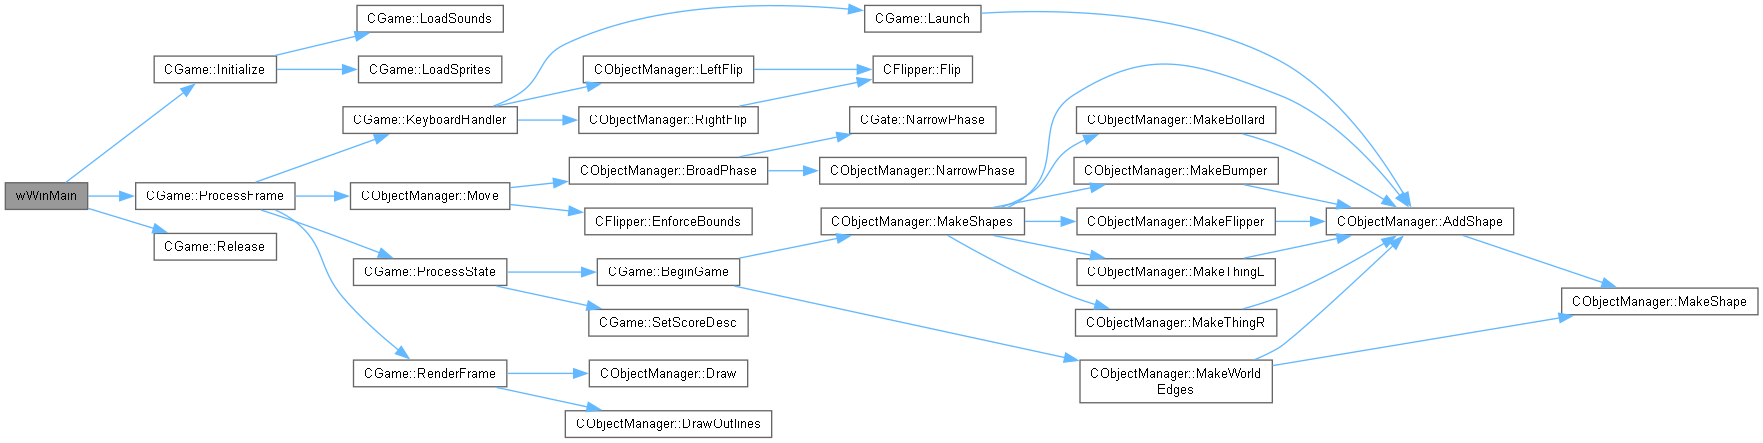
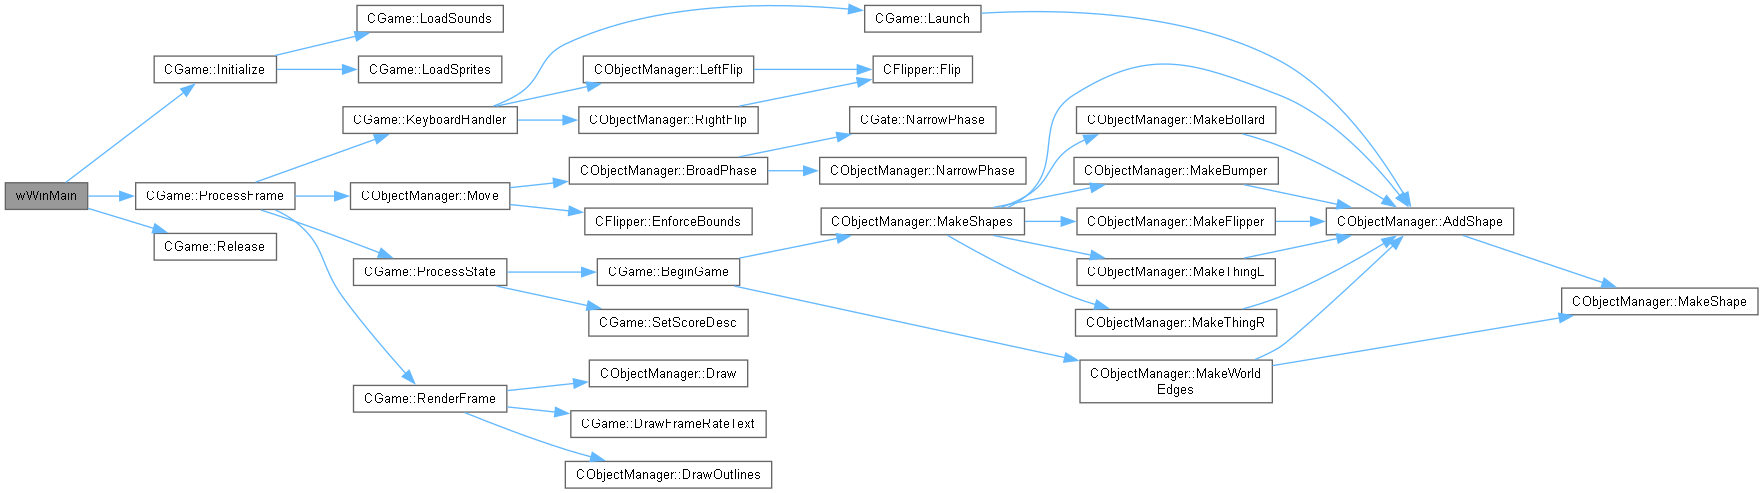
Update

diff --git a/docs/pinball/search/all_a.js b/docs/pinball/search/all_a.js
@@ -2,43 +2,44 @@ var searchData=
 [
   ['m_5fbballinplay_0',['m_bBallInPlay',['../class_c_common.html#a4a5b305a14d67cf4bfba3113f0f744f0',1,'CCommon']]],
   ['m_5fbccw_1',['m_bCCW',['../class_c_flipper.html#adfd89cf14cfe89a64e50e98c6151ca90',1,'CFlipper']]],
-  ['m_5fbflipup_2',['m_bFlipUp',['../class_c_flipper.html#a258275a7701a99d85a12a0feef92bc8b',1,'CFlipper']]],
-  ['m_5fbrecenthit_3',['m_bRecentHit',['../class_c_object.html#a67c7e06d8d32dc902184af9d7cd9f399',1,'CObject']]],
-  ['m_5fcaabb_4',['m_cAABB',['../class_c_object_manager.html#a016a690831fade5b2f0b12a72b090232',1,'CObjectManager']]],
-  ['m_5fcclipdesc0_5',['m_cClipDesc0',['../class_c_game.html#a2f3cad8a534e1871d78169a92558fbdb',1,'CGame']]],
-  ['m_5fcclipdesc1_6',['m_cClipDesc1',['../class_c_game.html#a1572b74d130de4a75768bcdb9c39bfb2',1,'CGame']]],
-  ['m_5fcscoredesc_7',['m_cScoreDesc',['../class_c_game.html#a10ccc45cdb94f1fbfa2ea99b79942189',1,'CGame']]],
-  ['m_5fedrawmode_8',['m_eDrawMode',['../class_c_common.html#a342e9d67f45b482a02d16b595508850e',1,'CCommon']]],
-  ['m_5fegamestate_9',['m_eGameState',['../class_c_game.html#a6d6d7b949d4a47b7c5d03c9dbf4be6fd',1,'CGame']]],
-  ['m_5felitsprite_10',['m_eLitSprite',['../class_c_obj_desc.html#a5066350e5758a28cdab97904b7640f75',1,'CObjDesc::m_eLitSprite'],['../class_c_object.html#a7708c1330660d19bc66199dc733b9c7c',1,'CObject::m_eLitSprite']]],
-  ['m_5fesound_11',['m_eSound',['../class_c_obj_desc.html#ac40fd308a26a2066024f86be7fae7841',1,'CObjDesc::m_eSound'],['../class_c_object.html#a2710e60021bc92b31546f1fe34bb9a09',1,'CObject::m_eSound']]],
-  ['m_5feunlitsprite_12',['m_eUnlitSprite',['../class_c_obj_desc.html#a830ea3eb951d9818294c3b39d4dbc346',1,'CObjDesc::m_eUnlitSprite'],['../class_c_object.html#a98c0db9913a5a24553bcaefc08e3c57f',1,'CObject::m_eUnlitSprite']]],
-  ['m_5fffrequency_13',['m_fFrequency',['../class_c_common.html#a55a630f382e032447df8f0757c0a20cf',1,'CCommon']]],
-  ['m_5fflasthittime_14',['m_fLastHitTime',['../class_c_object.html#afa9693e6f5b689b74ef5c7edc7a03836',1,'CObject']]],
-  ['m_5fnciterations_15',['m_nCIterations',['../class_c_common.html#a96ee6607f3899e75245d6847d49ca8f3',1,'CCommon']]],
-  ['m_5fnmiterations_16',['m_nMIterations',['../class_c_common.html#a48deca1b01b176202d98e3e73bd39a28',1,'CCommon']]],
-  ['m_5fnscore_17',['m_nScore',['../class_c_common.html#a895fca9c2d0bec1d4696fb807973b540',1,'CCommon::m_nScore'],['../class_c_obj_desc.html#a184ffa779ebd6eb3573480cb89759f5a',1,'CObjDesc::m_nScore'],['../class_c_object.html#a182d7382cd46ab16ae0329b5640826c4',1,'CObject::m_nScore']]],
-  ['m_5fpcurballshape_18',['m_pCurBallShape',['../class_c_game.html#a72ff9ab19901825f1e52ce2aa2bbc66c',1,'CGame']]],
-  ['m_5fpflipper_19',['m_pFlipper',['../class_c_flipper.html#ab7edc874d7f4568e5600f8b117310014',1,'CFlipper']]],
-  ['m_5fpleftflipper_20',['m_pLeftFlipper',['../class_c_object_manager.html#a02d5363ba501004972eb23610bc334b5',1,'CObjectManager']]],
-  ['m_5fpleftgate_21',['m_pLeftGate',['../class_c_object_manager.html#a2401e7ed6ab256c8bdc4d64042ee14c4',1,'CObjectManager']]],
-  ['m_5fplineseg_22',['m_pLineSeg',['../class_c_gate.html#ae314d128e24130badf5fb7fb13399f2f',1,'CGate']]],
-  ['m_5fpobjectmanager_23',['m_pObjectManager',['../class_c_common.html#a2ecfc2b5378ac9cc103605dca52011b3',1,'CCommon::m_pObjectManager'],['../class_c_game.html#ada781c7971e7bdb745edff821ea9fad9',1,'CGame::m_pObjectManager']]],
-  ['m_5fprenderer_24',['m_pRenderer',['../class_c_common.html#affe2697f28fbe937757db5eaa94c00d3',1,'CCommon']]],
-  ['m_5fprightflipper_25',['m_pRightFlipper',['../class_c_object_manager.html#af3efca35941f66b11d7d63d01e57f50d',1,'CObjectManager']]],
-  ['m_5fprightgate_26',['m_pRightGate',['../class_c_object_manager.html#a2bfd4879c5c89b0b5f29eac952e0ef5b',1,'CObjectManager']]],
-  ['m_5fpshape_27',['m_pShape',['../class_c_object.html#a842acd98e83e19ae71d23390b3948916',1,'CObject']]],
-  ['m_5fstdobjects_28',['m_stdObjects',['../class_c_object_manager.html#a97aac277c62e64c558cde571b2241a1f',1,'CObjectManager']]],
-  ['m_5fstdshapes_29',['m_stdShapes',['../class_c_object_manager.html#a0dcf204ea848b74cadc5d0b6ec89efea',1,'CObjectManager']]],
-  ['m_5fvspriteoffset_30',['m_vSpriteOffset',['../class_c_obj_desc.html#af3c784dc2e05fd455771ef6673f7b841',1,'CObjDesc::m_vSpriteOffset'],['../class_c_object.html#ac75d44a003108a32735398e23c877794',1,'CObject::m_vSpriteOffset']]],
-  ['main_2ecpp_31',['Main.cpp',['../_main_8cpp.html',1,'']]],
-  ['makebollard_32',['MakeBollard',['../class_c_object_manager.html#a8ec3facaf9550165947643f51e5265c7',1,'CObjectManager']]],
-  ['makebumper_33',['MakeBumper',['../class_c_object_manager.html#ae1c594c6824929eb9ba84f336045ae3d',1,'CObjectManager']]],
-  ['makeflipper_34',['MakeFlipper',['../class_c_object_manager.html#abaa1d5ffeaee29261db5eae35a03487c',1,'CObjectManager']]],
-  ['makeshape_35',['MakeShape',['../class_c_object_manager.html#a6c230a9e32ea2869acc9d1916e490df0',1,'CObjectManager']]],
-  ['makeshapes_36',['MakeShapes',['../class_c_object_manager.html#a31136d0aefd25d97932dca283f7e58a0',1,'CObjectManager']]],
-  ['makethingl_37',['MakeThingL',['../class_c_object_manager.html#a3c7fbcf613ac5cc2836d5e789ad4be20',1,'CObjectManager']]],
-  ['makethingr_38',['MakeThingR',['../class_c_object_manager.html#a08f704845cf30b46b8a59a3ce49d5419',1,'CObjectManager']]],
-  ['makeworldedges_39',['MakeWorldEdges',['../class_c_object_manager.html#a1dcdb4b8172c7657d398b966381ae006',1,'CObjectManager']]],
-  ['move_40',['Move',['../class_c_object_manager.html#aee994b178d5774f081865796a03709f2',1,'CObjectManager']]]
+  ['m_5fbdrawframerate_2',['m_bDrawFrameRate',['../class_c_game.html#aebf03edb5525b616bdefb05d23b9aa36',1,'CGame']]],
+  ['m_5fbflipup_3',['m_bFlipUp',['../class_c_flipper.html#a258275a7701a99d85a12a0feef92bc8b',1,'CFlipper']]],
+  ['m_5fbrecenthit_4',['m_bRecentHit',['../class_c_object.html#a67c7e06d8d32dc902184af9d7cd9f399',1,'CObject']]],
+  ['m_5fcaabb_5',['m_cAABB',['../class_c_object_manager.html#a016a690831fade5b2f0b12a72b090232',1,'CObjectManager']]],
+  ['m_5fcclipdesc0_6',['m_cClipDesc0',['../class_c_game.html#a2f3cad8a534e1871d78169a92558fbdb',1,'CGame']]],
+  ['m_5fcclipdesc1_7',['m_cClipDesc1',['../class_c_game.html#a1572b74d130de4a75768bcdb9c39bfb2',1,'CGame']]],
+  ['m_5fcscoredesc_8',['m_cScoreDesc',['../class_c_game.html#a10ccc45cdb94f1fbfa2ea99b79942189',1,'CGame']]],
+  ['m_5fedrawmode_9',['m_eDrawMode',['../class_c_common.html#a342e9d67f45b482a02d16b595508850e',1,'CCommon']]],
+  ['m_5fegamestate_10',['m_eGameState',['../class_c_game.html#a6d6d7b949d4a47b7c5d03c9dbf4be6fd',1,'CGame']]],
+  ['m_5felitsprite_11',['m_eLitSprite',['../class_c_obj_desc.html#a5066350e5758a28cdab97904b7640f75',1,'CObjDesc::m_eLitSprite'],['../class_c_object.html#a7708c1330660d19bc66199dc733b9c7c',1,'CObject::m_eLitSprite']]],
+  ['m_5fesound_12',['m_eSound',['../class_c_obj_desc.html#ac40fd308a26a2066024f86be7fae7841',1,'CObjDesc::m_eSound'],['../class_c_object.html#a2710e60021bc92b31546f1fe34bb9a09',1,'CObject::m_eSound']]],
+  ['m_5feunlitsprite_13',['m_eUnlitSprite',['../class_c_obj_desc.html#a830ea3eb951d9818294c3b39d4dbc346',1,'CObjDesc::m_eUnlitSprite'],['../class_c_object.html#a98c0db9913a5a24553bcaefc08e3c57f',1,'CObject::m_eUnlitSprite']]],
+  ['m_5fffrequency_14',['m_fFrequency',['../class_c_common.html#a55a630f382e032447df8f0757c0a20cf',1,'CCommon']]],
+  ['m_5fflasthittime_15',['m_fLastHitTime',['../class_c_object.html#afa9693e6f5b689b74ef5c7edc7a03836',1,'CObject']]],
+  ['m_5fnciterations_16',['m_nCIterations',['../class_c_common.html#a96ee6607f3899e75245d6847d49ca8f3',1,'CCommon']]],
+  ['m_5fnmiterations_17',['m_nMIterations',['../class_c_common.html#a48deca1b01b176202d98e3e73bd39a28',1,'CCommon']]],
+  ['m_5fnscore_18',['m_nScore',['../class_c_common.html#a895fca9c2d0bec1d4696fb807973b540',1,'CCommon::m_nScore'],['../class_c_obj_desc.html#a184ffa779ebd6eb3573480cb89759f5a',1,'CObjDesc::m_nScore'],['../class_c_object.html#a182d7382cd46ab16ae0329b5640826c4',1,'CObject::m_nScore']]],
+  ['m_5fpcurballshape_19',['m_pCurBallShape',['../class_c_game.html#a72ff9ab19901825f1e52ce2aa2bbc66c',1,'CGame']]],
+  ['m_5fpflipper_20',['m_pFlipper',['../class_c_flipper.html#ab7edc874d7f4568e5600f8b117310014',1,'CFlipper']]],
+  ['m_5fpleftflipper_21',['m_pLeftFlipper',['../class_c_object_manager.html#a02d5363ba501004972eb23610bc334b5',1,'CObjectManager']]],
+  ['m_5fpleftgate_22',['m_pLeftGate',['../class_c_object_manager.html#a2401e7ed6ab256c8bdc4d64042ee14c4',1,'CObjectManager']]],
+  ['m_5fplineseg_23',['m_pLineSeg',['../class_c_gate.html#ae314d128e24130badf5fb7fb13399f2f',1,'CGate']]],
+  ['m_5fpobjectmanager_24',['m_pObjectManager',['../class_c_common.html#a2ecfc2b5378ac9cc103605dca52011b3',1,'CCommon::m_pObjectManager'],['../class_c_game.html#ada781c7971e7bdb745edff821ea9fad9',1,'CGame::m_pObjectManager']]],
+  ['m_5fprenderer_25',['m_pRenderer',['../class_c_common.html#affe2697f28fbe937757db5eaa94c00d3',1,'CCommon']]],
+  ['m_5fprightflipper_26',['m_pRightFlipper',['../class_c_object_manager.html#af3efca35941f66b11d7d63d01e57f50d',1,'CObjectManager']]],
+  ['m_5fprightgate_27',['m_pRightGate',['../class_c_object_manager.html#a2bfd4879c5c89b0b5f29eac952e0ef5b',1,'CObjectManager']]],
+  ['m_5fpshape_28',['m_pShape',['../class_c_object.html#a842acd98e83e19ae71d23390b3948916',1,'CObject']]],
+  ['m_5fstdobjects_29',['m_stdObjects',['../class_c_object_manager.html#a97aac277c62e64c558cde571b2241a1f',1,'CObjectManager']]],
+  ['m_5fstdshapes_30',['m_stdShapes',['../class_c_object_manager.html#a0dcf204ea848b74cadc5d0b6ec89efea',1,'CObjectManager']]],
+  ['m_5fvspriteoffset_31',['m_vSpriteOffset',['../class_c_obj_desc.html#af3c784dc2e05fd455771ef6673f7b841',1,'CObjDesc::m_vSpriteOffset'],['../class_c_object.html#ac75d44a003108a32735398e23c877794',1,'CObject::m_vSpriteOffset']]],
+  ['main_2ecpp_32',['Main.cpp',['../_main_8cpp.html',1,'']]],
+  ['makebollard_33',['MakeBollard',['../class_c_object_manager.html#a8ec3facaf9550165947643f51e5265c7',1,'CObjectManager']]],
+  ['makebumper_34',['MakeBumper',['../class_c_object_manager.html#ae1c594c6824929eb9ba84f336045ae3d',1,'CObjectManager']]],
+  ['makeflipper_35',['MakeFlipper',['../class_c_object_manager.html#abaa1d5ffeaee29261db5eae35a03487c',1,'CObjectManager']]],
+  ['makeshape_36',['MakeShape',['../class_c_object_manager.html#a6c230a9e32ea2869acc9d1916e490df0',1,'CObjectManager']]],
+  ['makeshapes_37',['MakeShapes',['../class_c_object_manager.html#a31136d0aefd25d97932dca283f7e58a0',1,'CObjectManager']]],
+  ['makethingl_38',['MakeThingL',['../class_c_object_manager.html#a3c7fbcf613ac5cc2836d5e789ad4be20',1,'CObjectManager']]],
+  ['makethingr_39',['MakeThingR',['../class_c_object_manager.html#a08f704845cf30b46b8a59a3ce49d5419',1,'CObjectManager']]],
+  ['makeworldedges_40',['MakeWorldEdges',['../class_c_object_manager.html#a1dcdb4b8172c7657d398b966381ae006',1,'CObjectManager']]],
+  ['move_41',['Move',['../class_c_object_manager.html#aee994b178d5774f081865796a03709f2',1,'CObjectManager']]]
 ];

diff --git a/docs/pinball/class_c_game.html b/docs/pinball/class_c_game.html
@@ -194,12 +194,19 @@ Private Member Functions</h2></td></tr>
 <tr class="memitem:a4348d4eda6cc858625e8cac09dcc1e7d" id="r_a4348d4eda6cc858625e8cac09dcc1e7d"><td class="memItemLeft" align="right" valign="top">void&#160;</td><td class="memItemRight" valign="bottom"><a class="el" href="#a4348d4eda6cc858625e8cac09dcc1e7d">ProcessState</a> ()</td></tr>
 <tr class="memdesc:a4348d4eda6cc858625e8cac09dcc1e7d"><td class="mdescLeft">&#160;</td><td class="mdescRight">Process game state.  <br /></td></tr>
 <tr class="separator:a4348d4eda6cc858625e8cac09dcc1e7d"><td class="memSeparator" colspan="2">&#160;</td></tr>
+<tr class="memitem:ad55e21c71b4cef261a09fca0520012f5" id="r_ad55e21c71b4cef261a09fca0520012f5"><td class="memItemLeft" align="right" valign="top">void&#160;</td><td class="memItemRight" valign="bottom"><a class="el" href="#ad55e21c71b4cef261a09fca0520012f5">DrawFrameRateText</a> (const XMVECTORF32 &amp;)</td></tr>
+<tr class="memdesc:ad55e21c71b4cef261a09fca0520012f5"><td class="mdescLeft">&#160;</td><td class="mdescRight">Draw frame rate text to screen.  <br /></td></tr>
+<tr class="separator:ad55e21c71b4cef261a09fca0520012f5"><td class="memSeparator" colspan="2">&#160;</td></tr>
 <tr class="memitem:acbbc4c1ec3e3ce0cf871d9deb993a4a1" id="r_acbbc4c1ec3e3ce0cf871d9deb993a4a1"><td class="memItemLeft" align="right" valign="top">void&#160;</td><td class="memItemRight" valign="bottom"><a class="el" href="#acbbc4c1ec3e3ce0cf871d9deb993a4a1">Launch</a> ()</td></tr>
 <tr class="memdesc:acbbc4c1ec3e3ce0cf871d9deb993a4a1"><td class="mdescLeft">&#160;</td><td class="mdescRight">Create and launch a ball.  <br /></td></tr>
 <tr class="separator:acbbc4c1ec3e3ce0cf871d9deb993a4a1"><td class="memSeparator" colspan="2">&#160;</td></tr>
 </table><table class="memberdecls">
 <tr class="heading"><td colspan="2"><h2 class="groupheader"><a id="pri-attribs" name="pri-attribs"></a>
 Private Attributes</h2></td></tr>
+<tr class="memitem:aebf03edb5525b616bdefb05d23b9aa36" id="r_aebf03edb5525b616bdefb05d23b9aa36"><td class="memItemLeft" align="right" valign="top"><a id="aebf03edb5525b616bdefb05d23b9aa36" name="aebf03edb5525b616bdefb05d23b9aa36"></a>
+bool&#160;</td><td class="memItemRight" valign="bottom"><b>m_bDrawFrameRate</b> = false</td></tr>
+<tr class="memdesc:aebf03edb5525b616bdefb05d23b9aa36"><td class="mdescLeft">&#160;</td><td class="mdescRight">Draw the frame rate. <br /></td></tr>
+<tr class="separator:aebf03edb5525b616bdefb05d23b9aa36"><td class="memSeparator" colspan="2">&#160;</td></tr>
 <tr class="memitem:a6d6d7b949d4a47b7c5d03c9dbf4be6fd" id="r_a6d6d7b949d4a47b7c5d03c9dbf4be6fd"><td class="memItemLeft" align="right" valign="top"><a id="a6d6d7b949d4a47b7c5d03c9dbf4be6fd" name="a6d6d7b949d4a47b7c5d03c9dbf4be6fd"></a>
 <a class="el" href="_game_defines_8h.html#ae12dcfc1b1e01980b11e116e3af6807f">eGameState</a>&#160;</td><td class="memItemRight" valign="bottom"><b>m_eGameState</b> = eGameState::Loading</td></tr>
 <tr class="memdesc:a6d6d7b949d4a47b7c5d03c9dbf4be6fd"><td class="mdescLeft">&#160;</td><td class="mdescRight">Game state. <br /></td></tr>
@@ -335,6 +342,51 @@ Here is the caller graph for this function:</div>
 <area shape="rect" title="Begin playing the game." alt="" coords="544,5,687,32"/>
 <area shape="rect" href="class_c_game.html#a4348d4eda6cc858625e8cac09dcc1e7d" title="Process game state." alt="" coords="343,5,496,32"/>
 <area shape="poly" title=" " alt="" coords="529,21,497,21,497,16,529,16"/>
+<area shape="rect" href="class_c_game.html#aec83638cb2fdd94ef098132eb59617d8" title="Process an animation frame." alt="" coords="136,5,295,32"/>
+<area shape="poly" title=" " alt="" coords="328,21,295,21,295,16,328,16"/>
+<area shape="rect" href="_main_8cpp.html#a4e25c396385b9a412e9e4c1010076520" title="The main entry point for this application." alt="" coords="5,5,88,32"/>
+<area shape="poly" title=" " alt="" coords="120,21,88,21,88,16,120,16"/>
+</map>
+</div>
+
+</div>
+</div>
+<a id="ad55e21c71b4cef261a09fca0520012f5" name="ad55e21c71b4cef261a09fca0520012f5"></a>
+<h2 class="memtitle"><span class="permalink"><a href="#ad55e21c71b4cef261a09fca0520012f5">&#9670;&#160;</a></span>DrawFrameRateText()</h2>
+
+<div class="memitem">
+<div class="memproto">
+<table class="mlabels">
+  <tr>
+  <td class="mlabels-left">
+      <table class="memname">
+        <tr>
+          <td class="memname">void CGame::DrawFrameRateText </td>
+          <td>(</td>
+          <td class="paramtype">const XMVECTORF32 &amp;</td>          <td class="paramname"><span class="paramname"><em>color</em></span></td><td>)</td>
+          <td></td>
+        </tr>
+      </table>
+  </td>
+  <td class="mlabels-right">
+<span class="mlabels"><span class="mlabel">private</span></span>  </td>
+  </tr>
+</table>
+</div><div class="memdoc">
+<p>Draw the current frame rate to a hard-coded position in the window. The frame rate will be drawn in a hard-coded position using the font specified in <code>GameSettings.xml</code>. </p><dl class="params"><dt>Parameters</dt><dd>
+  <table class="params">
+    <tr><td class="paramname">color</td><td>Text color from <code>Colors::</code>. </td></tr>
+  </table>
+  </dd>
+</dl>
+<div class="dynheader">
+Here is the caller graph for this function:</div>
+<div class="dyncontent">
+<div class="center"><img src="class_c_game_ad55e21c71b4cef261a09fca0520012f5_icgraph.png" border="0" usemap="#aclass_c_game_ad55e21c71b4cef261a09fca0520012f5_icgraph" alt=""/></div>
+<map name="aclass_c_game_ad55e21c71b4cef261a09fca0520012f5_icgraph" id="aclass_c_game_ad55e21c71b4cef261a09fca0520012f5_icgraph">
+<area shape="rect" title="Draw frame rate text to screen." alt="" coords="544,5,740,32"/>
+<area shape="rect" href="class_c_game.html#a8b7924e5be62a511e2fc90cc40b7cbb0" title="Render an animation frame." alt="" coords="343,5,496,32"/>
+<area shape="poly" title=" " alt="" coords="528,21,496,21,496,16,528,16"/>
 <area shape="rect" href="class_c_game.html#aec83638cb2fdd94ef098132eb59617d8" title="Process an animation frame." alt="" coords="136,5,295,32"/>
 <area shape="poly" title=" " alt="" coords="328,21,295,21,295,16,328,16"/>
 <area shape="rect" href="_main_8cpp.html#a4e25c396385b9a412e9e4c1010076520" title="The main entry point for this application." alt="" coords="5,5,88,32"/>
@@ -600,8 +652,8 @@ Here is the call graph for this function:</div>
 <area shape="poly" title=" " alt="" coords="164,235,204,230,205,235,165,240"/>
 <area shape="rect" href="class_c_game.html#a4348d4eda6cc858625e8cac09dcc1e7d" title="Process game state." alt="" coords="223,259,376,285"/>
 <area shape="poly" title=" " alt="" coords="165,253,208,258,207,264,164,259"/>
-<area shape="rect" href="class_c_game.html#a8b7924e5be62a511e2fc90cc40b7cbb0" title="Render an animation frame." alt="" coords="223,360,376,387"/>
-<area shape="poly" title=" " alt="" coords="111,258,264,349,261,354,108,263"/>
+<area shape="rect" href="class_c_game.html#a8b7924e5be62a511e2fc90cc40b7cbb0" title="Render an animation frame." alt="" coords="223,385,376,412"/>
+<area shape="poly" title=" " alt="" coords="107,258,269,374,266,379,104,263"/>
 <area shape="rect" href="class_c_game.html#acbbc4c1ec3e3ce0cf871d9deb993a4a1" title="Create and launch a ball." alt="" coords="734,5,851,32"/>
 <area shape="poly" title=" " alt="" coords="329,78,378,59,434,41,509,28,585,20,718,15,719,20,586,26,510,34,436,47,379,64,331,83"/>
 <area shape="rect" href="class_c_object_manager.html#acd7fa3e1aa7512c071b0897c2c9d3a3b" title="Flip left flipper." alt="" coords="453,56,623,83"/>
@@ -650,9 +702,11 @@ Here is the call graph for this function:</div>
 <area shape="poly" title=" " alt="" coords="1123,357,1147,346,1195,305,1261,243,1265,247,1198,309,1149,350,1126,362"/>
 <area shape="poly" title=" " alt="" coords="1142,363,1429,315,1430,320,1143,368"/>
 <area shape="rect" href="class_c_object_manager.html#a849420297e5c9bf08f073d90b448daf8" title="Draw all objects." alt="" coords="459,360,617,387"/>
-<area shape="poly" title=" " alt="" coords="377,371,444,371,444,376,377,376"/>
-<area shape="rect" href="class_c_object_manager.html#a540f9609ea9a116178aec2c9a43a338a" title="Draw outlines of all objects." alt="" coords="435,411,641,437"/>
-<area shape="poly" title=" " alt="" coords="367,385,458,404,457,410,366,390"/>
+<area shape="poly" title=" " alt="" coords="377,388,443,381,444,386,377,393"/>
+<area shape="rect" href="class_c_game.html#ad55e21c71b4cef261a09fca0520012f5" title="Draw frame rate text to screen." alt="" coords="440,411,636,437"/>
+<area shape="poly" title=" " alt="" coords="377,404,425,409,425,415,377,409"/>
+<area shape="rect" href="class_c_object_manager.html#a540f9609ea9a116178aec2c9a43a338a" title="Draw outlines of all objects." alt="" coords="435,461,641,488"/>
+<area shape="poly" title=" " alt="" coords="335,410,436,447,462,454,460,459,434,452,333,415"/>
 </map>
 </div>
 <div class="dynheader">
@@ -800,11 +854,13 @@ Here is the call graph for this function:</div>
 <div class="dyncontent">
 <div class="center"><img src="class_c_game_a8b7924e5be62a511e2fc90cc40b7cbb0_cgraph.png" border="0" usemap="#aclass_c_game_a8b7924e5be62a511e2fc90cc40b7cbb0_cgraph" alt=""/></div>
 <map name="aclass_c_game_a8b7924e5be62a511e2fc90cc40b7cbb0_cgraph" id="aclass_c_game_a8b7924e5be62a511e2fc90cc40b7cbb0_cgraph">
-<area shape="rect" title="Render an animation frame." alt="" coords="5,31,159,57"/>
+<area shape="rect" title="Render an animation frame." alt="" coords="5,56,159,83"/>
 <area shape="rect" href="class_c_object_manager.html#a849420297e5c9bf08f073d90b448daf8" title="Draw all objects." alt="" coords="231,5,389,32"/>
-<area shape="poly" title=" " alt="" coords="159,33,215,27,215,32,159,38"/>
-<area shape="rect" href="class_c_object_manager.html#a540f9609ea9a116178aec2c9a43a338a" title="Draw outlines of all objects." alt="" coords="207,56,413,83"/>
-<area shape="poly" title=" " alt="" coords="159,50,192,53,191,59,159,55"/>
+<area shape="poly" title=" " alt="" coords="145,53,231,33,232,39,146,58"/>
+<area shape="rect" href="class_c_game.html#ad55e21c71b4cef261a09fca0520012f5" title="Draw frame rate text to screen." alt="" coords="212,56,408,83"/>
+<area shape="poly" title=" " alt="" coords="159,67,196,67,196,72,159,72"/>
+<area shape="rect" href="class_c_object_manager.html#a540f9609ea9a116178aec2c9a43a338a" title="Draw outlines of all objects." alt="" coords="207,107,413,133"/>
+<area shape="poly" title=" " alt="" coords="146,81,232,100,231,105,145,86"/>
 </map>
 </div>
 <div class="dynheader">

diff --git a/docs/pinball/search/variables_0.js b/docs/pinball/search/variables_0.js
@@ -2,33 +2,34 @@ var searchData=
 [
   ['m_5fbballinplay_0',['m_bBallInPlay',['../class_c_common.html#a4a5b305a14d67cf4bfba3113f0f744f0',1,'CCommon']]],
   ['m_5fbccw_1',['m_bCCW',['../class_c_flipper.html#adfd89cf14cfe89a64e50e98c6151ca90',1,'CFlipper']]],
-  ['m_5fbflipup_2',['m_bFlipUp',['../class_c_flipper.html#a258275a7701a99d85a12a0feef92bc8b',1,'CFlipper']]],
-  ['m_5fbrecenthit_3',['m_bRecentHit',['../class_c_object.html#a67c7e06d8d32dc902184af9d7cd9f399',1,'CObject']]],
-  ['m_5fcaabb_4',['m_cAABB',['../class_c_object_manager.html#a016a690831fade5b2f0b12a72b090232',1,'CObjectManager']]],
-  ['m_5fcclipdesc0_5',['m_cClipDesc0',['../class_c_game.html#a2f3cad8a534e1871d78169a92558fbdb',1,'CGame']]],
-  ['m_5fcclipdesc1_6',['m_cClipDesc1',['../class_c_game.html#a1572b74d130de4a75768bcdb9c39bfb2',1,'CGame']]],
-  ['m_5fcscoredesc_7',['m_cScoreDesc',['../class_c_game.html#a10ccc45cdb94f1fbfa2ea99b79942189',1,'CGame']]],
-  ['m_5fedrawmode_8',['m_eDrawMode',['../class_c_common.html#a342e9d67f45b482a02d16b595508850e',1,'CCommon']]],
-  ['m_5fegamestate_9',['m_eGameState',['../class_c_game.html#a6d6d7b949d4a47b7c5d03c9dbf4be6fd',1,'CGame']]],
-  ['m_5felitsprite_10',['m_eLitSprite',['../class_c_obj_desc.html#a5066350e5758a28cdab97904b7640f75',1,'CObjDesc::m_eLitSprite'],['../class_c_object.html#a7708c1330660d19bc66199dc733b9c7c',1,'CObject::m_eLitSprite']]],
-  ['m_5fesound_11',['m_eSound',['../class_c_obj_desc.html#ac40fd308a26a2066024f86be7fae7841',1,'CObjDesc::m_eSound'],['../class_c_object.html#a2710e60021bc92b31546f1fe34bb9a09',1,'CObject::m_eSound']]],
-  ['m_5feunlitsprite_12',['m_eUnlitSprite',['../class_c_obj_desc.html#a830ea3eb951d9818294c3b39d4dbc346',1,'CObjDesc::m_eUnlitSprite'],['../class_c_object.html#a98c0db9913a5a24553bcaefc08e3c57f',1,'CObject::m_eUnlitSprite']]],
-  ['m_5fffrequency_13',['m_fFrequency',['../class_c_common.html#a55a630f382e032447df8f0757c0a20cf',1,'CCommon']]],
-  ['m_5fflasthittime_14',['m_fLastHitTime',['../class_c_object.html#afa9693e6f5b689b74ef5c7edc7a03836',1,'CObject']]],
-  ['m_5fnciterations_15',['m_nCIterations',['../class_c_common.html#a96ee6607f3899e75245d6847d49ca8f3',1,'CCommon']]],
-  ['m_5fnmiterations_16',['m_nMIterations',['../class_c_common.html#a48deca1b01b176202d98e3e73bd39a28',1,'CCommon']]],
-  ['m_5fnscore_17',['m_nScore',['../class_c_common.html#a895fca9c2d0bec1d4696fb807973b540',1,'CCommon::m_nScore'],['../class_c_obj_desc.html#a184ffa779ebd6eb3573480cb89759f5a',1,'CObjDesc::m_nScore'],['../class_c_object.html#a182d7382cd46ab16ae0329b5640826c4',1,'CObject::m_nScore']]],
-  ['m_5fpcurballshape_18',['m_pCurBallShape',['../class_c_game.html#a72ff9ab19901825f1e52ce2aa2bbc66c',1,'CGame']]],
-  ['m_5fpflipper_19',['m_pFlipper',['../class_c_flipper.html#ab7edc874d7f4568e5600f8b117310014',1,'CFlipper']]],
-  ['m_5fpleftflipper_20',['m_pLeftFlipper',['../class_c_object_manager.html#a02d5363ba501004972eb23610bc334b5',1,'CObjectManager']]],
-  ['m_5fpleftgate_21',['m_pLeftGate',['../class_c_object_manager.html#a2401e7ed6ab256c8bdc4d64042ee14c4',1,'CObjectManager']]],
-  ['m_5fplineseg_22',['m_pLineSeg',['../class_c_gate.html#ae314d128e24130badf5fb7fb13399f2f',1,'CGate']]],
-  ['m_5fpobjectmanager_23',['m_pObjectManager',['../class_c_common.html#a2ecfc2b5378ac9cc103605dca52011b3',1,'CCommon::m_pObjectManager'],['../class_c_game.html#ada781c7971e7bdb745edff821ea9fad9',1,'CGame::m_pObjectManager']]],
-  ['m_5fprenderer_24',['m_pRenderer',['../class_c_common.html#affe2697f28fbe937757db5eaa94c00d3',1,'CCommon']]],
-  ['m_5fprightflipper_25',['m_pRightFlipper',['../class_c_object_manager.html#af3efca35941f66b11d7d63d01e57f50d',1,'CObjectManager']]],
-  ['m_5fprightgate_26',['m_pRightGate',['../class_c_object_manager.html#a2bfd4879c5c89b0b5f29eac952e0ef5b',1,'CObjectManager']]],
-  ['m_5fpshape_27',['m_pShape',['../class_c_object.html#a842acd98e83e19ae71d23390b3948916',1,'CObject']]],
-  ['m_5fstdobjects_28',['m_stdObjects',['../class_c_object_manager.html#a97aac277c62e64c558cde571b2241a1f',1,'CObjectManager']]],
-  ['m_5fstdshapes_29',['m_stdShapes',['../class_c_object_manager.html#a0dcf204ea848b74cadc5d0b6ec89efea',1,'CObjectManager']]],
-  ['m_5fvspriteoffset_30',['m_vSpriteOffset',['../class_c_obj_desc.html#af3c784dc2e05fd455771ef6673f7b841',1,'CObjDesc::m_vSpriteOffset'],['../class_c_object.html#ac75d44a003108a32735398e23c877794',1,'CObject::m_vSpriteOffset']]]
+  ['m_5fbdrawframerate_2',['m_bDrawFrameRate',['../class_c_game.html#aebf03edb5525b616bdefb05d23b9aa36',1,'CGame']]],
+  ['m_5fbflipup_3',['m_bFlipUp',['../class_c_flipper.html#a258275a7701a99d85a12a0feef92bc8b',1,'CFlipper']]],
+  ['m_5fbrecenthit_4',['m_bRecentHit',['../class_c_object.html#a67c7e06d8d32dc902184af9d7cd9f399',1,'CObject']]],
+  ['m_5fcaabb_5',['m_cAABB',['../class_c_object_manager.html#a016a690831fade5b2f0b12a72b090232',1,'CObjectManager']]],
+  ['m_5fcclipdesc0_6',['m_cClipDesc0',['../class_c_game.html#a2f3cad8a534e1871d78169a92558fbdb',1,'CGame']]],
+  ['m_5fcclipdesc1_7',['m_cClipDesc1',['../class_c_game.html#a1572b74d130de4a75768bcdb9c39bfb2',1,'CGame']]],
+  ['m_5fcscoredesc_8',['m_cScoreDesc',['../class_c_game.html#a10ccc45cdb94f1fbfa2ea99b79942189',1,'CGame']]],
+  ['m_5fedrawmode_9',['m_eDrawMode',['../class_c_common.html#a342e9d67f45b482a02d16b595508850e',1,'CCommon']]],
+  ['m_5fegamestate_10',['m_eGameState',['../class_c_game.html#a6d6d7b949d4a47b7c5d03c9dbf4be6fd',1,'CGame']]],
+  ['m_5felitsprite_11',['m_eLitSprite',['../class_c_obj_desc.html#a5066350e5758a28cdab97904b7640f75',1,'CObjDesc::m_eLitSprite'],['../class_c_object.html#a7708c1330660d19bc66199dc733b9c7c',1,'CObject::m_eLitSprite']]],
+  ['m_5fesound_12',['m_eSound',['../class_c_obj_desc.html#ac40fd308a26a2066024f86be7fae7841',1,'CObjDesc::m_eSound'],['../class_c_object.html#a2710e60021bc92b31546f1fe34bb9a09',1,'CObject::m_eSound']]],
+  ['m_5feunlitsprite_13',['m_eUnlitSprite',['../class_c_obj_desc.html#a830ea3eb951d9818294c3b39d4dbc346',1,'CObjDesc::m_eUnlitSprite'],['../class_c_object.html#a98c0db9913a5a24553bcaefc08e3c57f',1,'CObject::m_eUnlitSprite']]],
+  ['m_5fffrequency_14',['m_fFrequency',['../class_c_common.html#a55a630f382e032447df8f0757c0a20cf',1,'CCommon']]],
+  ['m_5fflasthittime_15',['m_fLastHitTime',['../class_c_object.html#afa9693e6f5b689b74ef5c7edc7a03836',1,'CObject']]],
+  ['m_5fnciterations_16',['m_nCIterations',['../class_c_common.html#a96ee6607f3899e75245d6847d49ca8f3',1,'CCommon']]],
+  ['m_5fnmiterations_17',['m_nMIterations',['../class_c_common.html#a48deca1b01b176202d98e3e73bd39a28',1,'CCommon']]],
+  ['m_5fnscore_18',['m_nScore',['../class_c_common.html#a895fca9c2d0bec1d4696fb807973b540',1,'CCommon::m_nScore'],['../class_c_obj_desc.html#a184ffa779ebd6eb3573480cb89759f5a',1,'CObjDesc::m_nScore'],['../class_c_object.html#a182d7382cd46ab16ae0329b5640826c4',1,'CObject::m_nScore']]],
+  ['m_5fpcurballshape_19',['m_pCurBallShape',['../class_c_game.html#a72ff9ab19901825f1e52ce2aa2bbc66c',1,'CGame']]],
+  ['m_5fpflipper_20',['m_pFlipper',['../class_c_flipper.html#ab7edc874d7f4568e5600f8b117310014',1,'CFlipper']]],
+  ['m_5fpleftflipper_21',['m_pLeftFlipper',['../class_c_object_manager.html#a02d5363ba501004972eb23610bc334b5',1,'CObjectManager']]],
+  ['m_5fpleftgate_22',['m_pLeftGate',['../class_c_object_manager.html#a2401e7ed6ab256c8bdc4d64042ee14c4',1,'CObjectManager']]],
+  ['m_5fplineseg_23',['m_pLineSeg',['../class_c_gate.html#ae314d128e24130badf5fb7fb13399f2f',1,'CGate']]],
+  ['m_5fpobjectmanager_24',['m_pObjectManager',['../class_c_common.html#a2ecfc2b5378ac9cc103605dca52011b3',1,'CCommon::m_pObjectManager'],['../class_c_game.html#ada781c7971e7bdb745edff821ea9fad9',1,'CGame::m_pObjectManager']]],
+  ['m_5fprenderer_25',['m_pRenderer',['../class_c_common.html#affe2697f28fbe937757db5eaa94c00d3',1,'CCommon']]],
+  ['m_5fprightflipper_26',['m_pRightFlipper',['../class_c_object_manager.html#af3efca35941f66b11d7d63d01e57f50d',1,'CObjectManager']]],
+  ['m_5fprightgate_27',['m_pRightGate',['../class_c_object_manager.html#a2bfd4879c5c89b0b5f29eac952e0ef5b',1,'CObjectManager']]],
+  ['m_5fpshape_28',['m_pShape',['../class_c_object.html#a842acd98e83e19ae71d23390b3948916',1,'CObject']]],
+  ['m_5fstdobjects_29',['m_stdObjects',['../class_c_object_manager.html#a97aac277c62e64c558cde571b2241a1f',1,'CObjectManager']]],
+  ['m_5fstdshapes_30',['m_stdShapes',['../class_c_object_manager.html#a0dcf204ea848b74cadc5d0b6ec89efea',1,'CObjectManager']]],
+  ['m_5fvspriteoffset_31',['m_vSpriteOffset',['../class_c_obj_desc.html#af3c784dc2e05fd455771ef6673f7b841',1,'CObjDesc::m_vSpriteOffset'],['../class_c_object.html#ac75d44a003108a32735398e23c877794',1,'CObject::m_vSpriteOffset']]]
 ];

diff --git a/docs/pinball/class_c_game-members.html b/docs/pinball/class_c_game-members.html
@@ -101,12 +101,14 @@ $(function(){ initResizable(false); });
 <p>This is the complete list of members for <a class="el" href="class_c_game.html">CGame</a>, including all inherited members.</p>
 <table class="directory">
   <tr class="even"><td class="entry"><a class="el" href="class_c_game.html#af7200bd66587e10002e7ed9e4a1f930e">BeginGame</a>()</td><td class="entry"><a class="el" href="class_c_game.html">CGame</a></td><td class="entry"><span class="mlabel">private</span></td></tr>
-  <tr class="odd"><td class="entry"><a class="el" href="class_c_game.html#a4349adf43d0dc02d80ad06ca1d77411c">Initialize</a>()</td><td class="entry"><a class="el" href="class_c_game.html">CGame</a></td><td class="entry"></td></tr>
-  <tr class="even"><td class="entry"><a class="el" href="class_c_game.html#a74a75ef02b07f0f785de8aa6e7631b5d">KeyboardHandler</a>()</td><td class="entry"><a class="el" href="class_c_game.html">CGame</a></td><td class="entry"><span class="mlabel">private</span></td></tr>
-  <tr class="odd"><td class="entry"><a class="el" href="class_c_game.html#acbbc4c1ec3e3ce0cf871d9deb993a4a1">Launch</a>()</td><td class="entry"><a class="el" href="class_c_game.html">CGame</a></td><td class="entry"><span class="mlabel">private</span></td></tr>
-  <tr class="even"><td class="entry"><a class="el" href="class_c_game.html#a2b8445af848995e021ae59ae2e12be2c">LoadSounds</a>()</td><td class="entry"><a class="el" href="class_c_game.html">CGame</a></td><td class="entry"><span class="mlabel">private</span></td></tr>
-  <tr class="odd"><td class="entry"><a class="el" href="class_c_game.html#a7c1fa6038d453a578371caa9f01e2388">LoadSprites</a>()</td><td class="entry"><a class="el" href="class_c_game.html">CGame</a></td><td class="entry"><span class="mlabel">private</span></td></tr>
-  <tr class="even"><td class="entry"><a class="el" href="class_c_common.html#a4a5b305a14d67cf4bfba3113f0f744f0">m_bBallInPlay</a></td><td class="entry"><a class="el" href="class_c_common.html">CCommon</a></td><td class="entry"><span class="mlabel">protected</span><span class="mlabel">static</span></td></tr>
+  <tr class="odd"><td class="entry"><a class="el" href="class_c_game.html#ad55e21c71b4cef261a09fca0520012f5">DrawFrameRateText</a>(const XMVECTORF32 &amp;)</td><td class="entry"><a class="el" href="class_c_game.html">CGame</a></td><td class="entry"><span class="mlabel">private</span></td></tr>
+  <tr class="even"><td class="entry"><a class="el" href="class_c_game.html#a4349adf43d0dc02d80ad06ca1d77411c">Initialize</a>()</td><td class="entry"><a class="el" href="class_c_game.html">CGame</a></td><td class="entry"></td></tr>
+  <tr class="odd"><td class="entry"><a class="el" href="class_c_game.html#a74a75ef02b07f0f785de8aa6e7631b5d">KeyboardHandler</a>()</td><td class="entry"><a class="el" href="class_c_game.html">CGame</a></td><td class="entry"><span class="mlabel">private</span></td></tr>
+  <tr class="even"><td class="entry"><a class="el" href="class_c_game.html#acbbc4c1ec3e3ce0cf871d9deb993a4a1">Launch</a>()</td><td class="entry"><a class="el" href="class_c_game.html">CGame</a></td><td class="entry"><span class="mlabel">private</span></td></tr>
+  <tr class="odd"><td class="entry"><a class="el" href="class_c_game.html#a2b8445af848995e021ae59ae2e12be2c">LoadSounds</a>()</td><td class="entry"><a class="el" href="class_c_game.html">CGame</a></td><td class="entry"><span class="mlabel">private</span></td></tr>
+  <tr class="even"><td class="entry"><a class="el" href="class_c_game.html#a7c1fa6038d453a578371caa9f01e2388">LoadSprites</a>()</td><td class="entry"><a class="el" href="class_c_game.html">CGame</a></td><td class="entry"><span class="mlabel">private</span></td></tr>
+  <tr class="odd"><td class="entry"><a class="el" href="class_c_common.html#a4a5b305a14d67cf4bfba3113f0f744f0">m_bBallInPlay</a></td><td class="entry"><a class="el" href="class_c_common.html">CCommon</a></td><td class="entry"><span class="mlabel">protected</span><span class="mlabel">static</span></td></tr>
+  <tr class="even"><td class="entry"><a class="el" href="class_c_game.html#aebf03edb5525b616bdefb05d23b9aa36">m_bDrawFrameRate</a></td><td class="entry"><a class="el" href="class_c_game.html">CGame</a></td><td class="entry"><span class="mlabel">private</span></td></tr>
   <tr class="odd"><td class="entry"><a class="el" href="class_c_game.html#a2f3cad8a534e1871d78169a92558fbdb">m_cClipDesc0</a></td><td class="entry"><a class="el" href="class_c_game.html">CGame</a></td><td class="entry"><span class="mlabel">private</span></td></tr>
   <tr class="even"><td class="entry"><a class="el" href="class_c_game.html#a1572b74d130de4a75768bcdb9c39bfb2">m_cClipDesc1</a></td><td class="entry"><a class="el" href="class_c_game.html">CGame</a></td><td class="entry"><span class="mlabel">private</span></td></tr>
   <tr class="odd"><td class="entry"><a class="el" href="class_c_game.html#a10ccc45cdb94f1fbfa2ea99b79942189">m_cScoreDesc</a></td><td class="entry"><a class="el" href="class_c_game.html">CGame</a></td><td class="entry"><span class="mlabel">private</span></td></tr>

diff --git a/docs/pinball/_main_8cpp.html b/docs/pinball/_main_8cpp.html
@@ -246,8 +246,8 @@ Here is the call graph for this function:</div>
 <area shape="poly" title=" " alt="" coords="295,193,335,193,335,199,295,199"/>
 <area shape="rect" href="class_c_game.html#a4348d4eda6cc858625e8cac09dcc1e7d" title="Process game state." alt="" coords="354,259,507,285"/>
 <area shape="poly" title=" " alt="" coords="262,208,296,219,381,250,379,255,294,224,260,213"/>
-<area shape="rect" href="class_c_game.html#a8b7924e5be62a511e2fc90cc40b7cbb0" title="Render an animation frame." alt="" coords="354,360,507,387"/>
-<area shape="poly" title=" " alt="" coords="277,208,297,219,314,238,324,256,331,275,345,296,372,324,400,348,397,352,369,328,341,299,327,277,319,258,310,241,293,224,274,212"/>
+<area shape="rect" href="class_c_game.html#a8b7924e5be62a511e2fc90cc40b7cbb0" title="Render an animation frame." alt="" coords="354,385,507,412"/>
+<area shape="poly" title=" " alt="" coords="277,208,297,219,315,238,324,255,332,274,345,296,408,372,404,375,341,299,328,277,320,258,310,241,293,224,274,212"/>
 <area shape="rect" href="class_c_game.html#acbbc4c1ec3e3ce0cf871d9deb993a4a1" title="Create and launch a ball." alt="" coords="865,5,981,32"/>
 <area shape="poly" title=" " alt="" coords="492,104,516,93,530,80,539,67,548,53,564,42,600,27,637,17,713,5,786,3,849,6,849,12,786,8,713,11,638,22,601,33,567,46,552,57,543,70,534,84,519,97,494,109"/>
 <area shape="rect" href="class_c_object_manager.html#acd7fa3e1aa7512c071b0897c2c9d3a3b" title="Flip left flipper." alt="" coords="583,56,754,83"/>
@@ -296,9 +296,11 @@ Here is the call graph for this function:</div>
 <area shape="poly" title=" " alt="" coords="1254,357,1277,346,1325,305,1391,244,1395,247,1329,309,1280,350,1256,362"/>
 <area shape="poly" title=" " alt="" coords="1272,363,1559,315,1560,320,1273,368"/>
 <area shape="rect" href="class_c_object_manager.html#a849420297e5c9bf08f073d90b448daf8" title="Draw all objects." alt="" coords="589,360,748,387"/>
-<area shape="poly" title=" " alt="" coords="507,371,574,371,574,376,507,376"/>
-<area shape="rect" href="class_c_object_manager.html#a540f9609ea9a116178aec2c9a43a338a" title="Draw outlines of all objects." alt="" coords="565,411,772,437"/>
-<area shape="poly" title=" " alt="" coords="497,385,588,404,587,410,496,390"/>
+<area shape="poly" title=" " alt="" coords="507,388,574,381,574,386,508,393"/>
+<area shape="rect" href="class_c_game.html#ad55e21c71b4cef261a09fca0520012f5" title="Draw frame rate text to screen." alt="" coords="571,411,766,437"/>
+<area shape="poly" title=" " alt="" coords="508,404,556,409,555,415,507,410"/>
+<area shape="rect" href="class_c_object_manager.html#a540f9609ea9a116178aec2c9a43a338a" title="Draw outlines of all objects." alt="" coords="565,461,772,488"/>
+<area shape="poly" title=" " alt="" coords="466,410,566,447,592,454,591,459,565,452,464,415"/>
 </map>
 </div>
 

diff --git a/docs/pinball/functions.html b/docs/pinball/functions.html
@@ -117,6 +117,7 @@ $(function(){ initResizable(false); });
 
 <h3><a id="index_d" name="index_d"></a>- d -</h3><ul>
 <li>Draw()&#160;:&#160;<a class="el" href="class_c_object_manager.html#a849420297e5c9bf08f073d90b448daf8">CObjectManager</a></li>
+<li>DrawFrameRateText()&#160;:&#160;<a class="el" href="class_c_game.html#ad55e21c71b4cef261a09fca0520012f5">CGame</a></li>
 <li>DrawOutline()&#160;:&#160;<a class="el" href="class_c_object.html#aa45b99376582639dedfc612ab1c29f37">CObject</a></li>
 <li>DrawOutlines()&#160;:&#160;<a class="el" href="class_c_object_manager.html#a540f9609ea9a116178aec2c9a43a338a">CObjectManager</a></li>
 </ul>
@@ -160,6 +161,7 @@ $(function(){ initResizable(false); });
 <h3><a id="index_m" name="index_m"></a>- m -</h3><ul>
 <li>m_bBallInPlay&#160;:&#160;<a class="el" href="class_c_common.html#a4a5b305a14d67cf4bfba3113f0f744f0">CCommon</a></li>
 <li>m_bCCW&#160;:&#160;<a class="el" href="class_c_flipper.html#adfd89cf14cfe89a64e50e98c6151ca90">CFlipper</a></li>
+<li>m_bDrawFrameRate&#160;:&#160;<a class="el" href="class_c_game.html#aebf03edb5525b616bdefb05d23b9aa36">CGame</a></li>
 <li>m_bFlipUp&#160;:&#160;<a class="el" href="class_c_flipper.html#a258275a7701a99d85a12a0feef92bc8b">CFlipper</a></li>
 <li>m_bRecentHit&#160;:&#160;<a class="el" href="class_c_object.html#a67c7e06d8d32dc902184af9d7cd9f399">CObject</a></li>
 <li>m_cAABB&#160;:&#160;<a class="el" href="class_c_object_manager.html#a016a690831fade5b2f0b12a72b090232">CObjectManager</a></li>

diff --git a/docs/pinball/functions_vars.html b/docs/pinball/functions_vars.html
@@ -99,6 +99,7 @@ $(function(){ initResizable(false); });
 <h3><a id="index_m" name="index_m"></a>- m -</h3><ul>
 <li>m_bBallInPlay&#160;:&#160;<a class="el" href="class_c_common.html#a4a5b305a14d67cf4bfba3113f0f744f0">CCommon</a></li>
 <li>m_bCCW&#160;:&#160;<a class="el" href="class_c_flipper.html#adfd89cf14cfe89a64e50e98c6151ca90">CFlipper</a></li>
+<li>m_bDrawFrameRate&#160;:&#160;<a class="el" href="class_c_game.html#aebf03edb5525b616bdefb05d23b9aa36">CGame</a></li>
 <li>m_bFlipUp&#160;:&#160;<a class="el" href="class_c_flipper.html#a258275a7701a99d85a12a0feef92bc8b">CFlipper</a></li>
 <li>m_bRecentHit&#160;:&#160;<a class="el" href="class_c_object.html#a67c7e06d8d32dc902184af9d7cd9f399">CObject</a></li>
 <li>m_cAABB&#160;:&#160;<a class="el" href="class_c_object_manager.html#a016a690831fade5b2f0b12a72b090232">CObjectManager</a></li>

diff --git a/docs/pinball/search/all_3.js b/docs/pinball/search/all_3.js
@@ -1,6 +1,7 @@
 var searchData=
 [
   ['draw_0',['Draw',['../class_c_object_manager.html#a849420297e5c9bf08f073d90b448daf8',1,'CObjectManager']]],
-  ['drawoutline_1',['DrawOutline',['../class_c_object.html#aa45b99376582639dedfc612ab1c29f37',1,'CObject']]],
-  ['drawoutlines_2',['DrawOutlines',['../class_c_object_manager.html#a540f9609ea9a116178aec2c9a43a338a',1,'CObjectManager']]]
+  ['drawframeratetext_1',['DrawFrameRateText',['../class_c_game.html#ad55e21c71b4cef261a09fca0520012f5',1,'CGame']]],
+  ['drawoutline_2',['DrawOutline',['../class_c_object.html#aa45b99376582639dedfc612ab1c29f37',1,'CObject']]],
+  ['drawoutlines_3',['DrawOutlines',['../class_c_object_manager.html#a540f9609ea9a116178aec2c9a43a338a',1,'CObjectManager']]]
 ];

diff --git a/docs/pinball/search/functions_3.js b/docs/pinball/search/functions_3.js
@@ -1,6 +1,7 @@
 var searchData=
 [
   ['draw_0',['Draw',['../class_c_object_manager.html#a849420297e5c9bf08f073d90b448daf8',1,'CObjectManager']]],
-  ['drawoutline_1',['DrawOutline',['../class_c_object.html#aa45b99376582639dedfc612ab1c29f37',1,'CObject']]],
-  ['drawoutlines_2',['DrawOutlines',['../class_c_object_manager.html#a540f9609ea9a116178aec2c9a43a338a',1,'CObjectManager']]]
+  ['drawframeratetext_1',['DrawFrameRateText',['../class_c_game.html#ad55e21c71b4cef261a09fca0520012f5',1,'CGame']]],
+  ['drawoutline_2',['DrawOutline',['../class_c_object.html#aa45b99376582639dedfc612ab1c29f37',1,'CObject']]],
+  ['drawoutlines_3',['DrawOutlines',['../class_c_object_manager.html#a540f9609ea9a116178aec2c9a43a338a',1,'CObjectManager']]]
 ];

diff --git a/docs/pinball/functions_func.html b/docs/pinball/functions_func.html
@@ -117,6 +117,7 @@ $(function(){ initResizable(false); });
 
 <h3><a id="index_d" name="index_d"></a>- d -</h3><ul>
 <li>Draw()&#160;:&#160;<a class="el" href="class_c_object_manager.html#a849420297e5c9bf08f073d90b448daf8">CObjectManager</a></li>
+<li>DrawFrameRateText()&#160;:&#160;<a class="el" href="class_c_game.html#ad55e21c71b4cef261a09fca0520012f5">CGame</a></li>
 <li>DrawOutline()&#160;:&#160;<a class="el" href="class_c_object.html#aa45b99376582639dedfc612ab1c29f37">CObject</a></li>
 <li>DrawOutlines()&#160;:&#160;<a class="el" href="class_c_object_manager.html#a540f9609ea9a116178aec2c9a43a338a">CObjectManager</a></li>
 </ul>

diff --git a/docs/pinball/doxygen_crawl.html b/docs/pinball/doxygen_crawl.html
@@ -186,7 +186,9 @@
 <a href="class_c_game.html#a8b7924e5be62a511e2fc90cc40b7cbb0"/>
 <a href="class_c_game.html#aa4cbb6823e28b0b35cd4cac5f17ac797"/>
 <a href="class_c_game.html#acbbc4c1ec3e3ce0cf871d9deb993a4a1"/>
+<a href="class_c_game.html#ad55e21c71b4cef261a09fca0520012f5"/>
 <a href="class_c_game.html#ada781c7971e7bdb745edff821ea9fad9"/>
+<a href="class_c_game.html#aebf03edb5525b616bdefb05d23b9aa36"/>
 <a href="class_c_game.html#aec83638cb2fdd94ef098132eb59617d8"/>
 <a href="class_c_game.html#af7200bd66587e10002e7ed9e4a1f930e"/>
 <a href="class_c_gate.html"/>

diff --git a/docs/pinball/index.html b/docs/pinball/index.html
@@ -108,7 +108,9 @@ Fig. 1: Screen shot.</div></div>
 <tr>
 <td><center>F1</center> </td><td>Help (this document) </td></tr>
 <tr>
-<td><center>F2</center> </td><td>Toggle draw mode from "sprites only", to "sprites and lines", to "lines only" </td></tr>
+<td><center>F2</center> </td><td>Toggle frame rate display </td></tr>
+<tr>
+<td><center>F3</center> </td><td>Toggle draw mode from "sprites only", to "sprites and lines", to "lines only" </td></tr>
 <tr>
 <td><center>Space</center> </td><td>Load a ball (first press) and launch it (second press) </td></tr>
 <tr>
